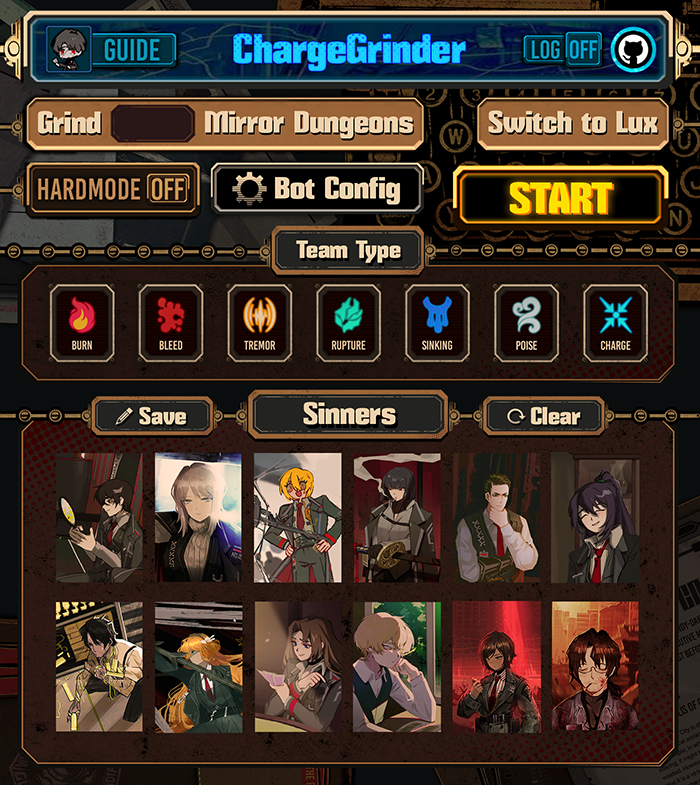
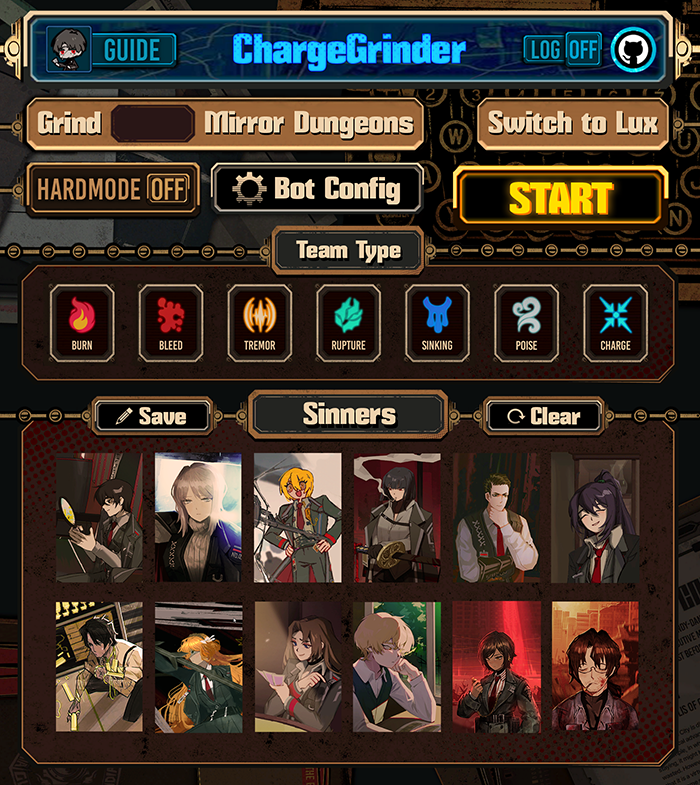
v1.1.2

Changed region(s): [[0.69, 0.4892, 0.87, 0.5503], [0.12, 0.4892, 0.3, 0.5503]]

diff --git a/source/shop.py b/source/shop.py
@@ -80,6 +80,7 @@ def inventory_check():
         template = cv2.imread(PTH[gift], cv2.IMREAD_GRAYSCALE)
         res = SIFT_matching(template, kp2, des2, REG["fuse_shelf"], min_matches=10, nfeatures=3000)
         if res:
+            print("got", gift)
             res = gui.center(res)
             have[gift] = res
             fuse_shelf = rectangle(fuse_shelf, (int(res[0] - 982), int(res[1] - 367)), (int(res[0] - 860), int(res[1] - 235)), (0, 0, 0), -1)
@@ -224,7 +225,7 @@ def fuse_loop():
 
 
 def balance(money):
-    time.sleep(0.1)
+    answer_me = True
     bal = -1
     start_time = time.time()
     # gui.screenshot(f"cost{time.time()}.png", region=(857, 175, 99, 57)) # debugging
@@ -232,7 +233,7 @@ def balance(money):
         if time.time() - start_time > 20: raise RuntimeError("Infinite loop exited")
         digits = []
         for i in range(9, -1, -1):
-            pos = [gui.center(box) for box in LocateRGB.locate_all(PTH[f"cost{i}"], region=(857, 175, 99, 57), threshold=7, conf=0.95, method=cv2.TM_SQDIFF_NORMED)]
+            pos = [gui.center(box) for box in LocateRGB.locate_all(PTH[f"cost{i}"], region=(857, 175, 99, 57), threshold=7, conf=0.9, method=cv2.TM_SQDIFF_NORMED)]
             for coord in pos:
                 if all(abs(coord[0] - existing_coord) > 7 for _, existing_coord in digits):
                     digits.append((i, coord[0]))
@@ -241,6 +242,10 @@ def balance(money):
         bal = ""
         for i in digits: bal += str(i[0])
         bal = int(bal or -1)
+        if bal != -1 and bal < money and answer_me: 
+            time.sleep(0.2)
+            answer_me = False # you game me an answer, but not your own
+            bal = -1 # I will ask again
     print("money", bal)
     return bal >= money
 

diff --git a/Bot.py b/Bot.py
@@ -274,30 +274,26 @@ def execute_me(is_lux, count, count_exp, count_thd, affinity, sinners, priority,
         print("No logging I guess")
         setup_logging(enable_logging=False)
 
-    if is_lux:
-        try:
-            set_window()
-            grind_lux(count_exp, count_thd)
-            QMetaObject.invokeMethod(p.APP, "stop_execution", Qt.ConnectionType.QueuedConnection)
-            return
-        except StopExecution:
-            return
-        except ZeroDivisionError: # gotta launch the game
-            raise RuntimeError("Launch Limbus Company!")
+
+    if not is_lux:    
+        p.PICK = generate_packs(priority)
+        p.IGNORE = generate_packs(avoid)
+        print(p.PICK)
         
-    p.PICK = generate_packs(priority)
-    p.IGNORE = generate_packs(avoid)
-    print(p.PICK)
-    
-    
-    print(f"Grinding {count} mirrors...")
-    print("Switch to Limbus Window")
-    countdown(10)
-    
-    logging.info('Script started')
+        
+        print(f"Grinding {count} mirrors...")
+        print("Switch to Limbus Window")
+        countdown(10)
+        
+        logging.info('Script started')
 
     try:
         set_window()
+        if is_lux:
+            grind_lux(count_exp, count_thd)
+            QMetaObject.invokeMethod(p.APP, "stop_execution", Qt.ConnectionType.QueuedConnection)
+            return
+
         for i in range(count):
             if p.NETZACH: check_enkephalin()
 

diff --git a/source/utils/utils.py b/source/utils/utils.py
@@ -257,7 +257,7 @@ def pause():
 def close_limbus():
     if gui.getActiveWindowTitle() == 'LimbusCompany':
         gui.hotkey('alt', 'f4')
-
+    if p.APP: QMetaObject.invokeMethod(p.APP, "stop_execution", Qt.ConnectionType.QueuedConnection)
     raise StopExecution()
 
 
@@ -482,8 +482,10 @@ def SIFT_matching(template, kp2, des2, search_region, min_matches=40, nfeatures=
                 y_min, y_max = min(y_coords), max(y_coords)
 
                 if (x_max - x_min < 2 * w) and (y_max - y_min < 2 * h):
-                    x, y = int(x_min), int(y_min)
-                    return (search_region[0] + x, search_region[1] + y, int(x_max - x), int(y_max - y))
+                    comp_inv = 1920 / p.WINDOW[2]
+                    x_fullhd = int(x_min*comp_inv) + search_region[0]
+                    y_fullhd = int(y_min*comp_inv) + search_region[1]
+                    return (x_fullhd, y_fullhd, int((x_max - x_min)*comp), int((y_max - y_min)*comp))
     return None
 
 

diff --git a/App.py b/App.py
@@ -761,11 +761,13 @@ class MyApp(QWidget):
             'save': CustomButton(self, {
                 'geometry': (90, 394, 125, 43),
                 'click_handler': self.save,
+                'glow': Bot.APP_PTH['save']
             }),
 
             'reset': CustomButton(self, {
                 'geometry': (481, 394, 125, 43),
                 'click_handler': self.reset,
+                'glow': Bot.APP_PTH['clear']
             }),
 
             'MD': CustomButton(self.lux, {
@@ -776,6 +778,7 @@ class MyApp(QWidget):
             'config': CustomButton(self, {
                 'geometry': (209, 160, 217, 55),
                 'click_handler': lambda: (self.config.show(), self.config.raise_()),
+                'glow': Bot.APP_PTH['settings']
             }),
 
             'save_config': CustomButton(self.config, {

diff --git a/source/event.py b/source/event.py
@@ -16,14 +16,14 @@ def event():
         
         if now.button("choices"):
             time.sleep(0.1)
-            egos = LocateGray.locate_all(PTH["textEGO"], region=REG["textEGO"])
+            egos = LocateGray.locate_all(PTH["textEGO"], region=REG["textEGO"], conf=0.85)
             print(egos)
             if not egos:
                 choice = random.choice([316, 520])
                 win_click(1348, choice, delay=0)
                 continue
             try:
-                win = LocateGray.try_locate(PTH["textWIN"], region=REG["textEGO"])
+                win = LocateGray.try_locate(PTH["textWIN"], region=REG["textEGO"], conf=0.85)
                 for box in egos:
                     if abs(box[1] - win[1]) > 80:
                         win_click(gui.center(box), delay=0)

diff --git a/source/teams.py b/source/teams.py
@@ -62,9 +62,9 @@ TEAMS = {
         "uptie2" : "thrill",
         "goal"   : "trance",
         "fuse1"  : {},
-        "fuse2"  : {"battery": 3, "rope": 2, "bundle": 1}, # trance        
-        "buy"    : ["thrill", "breast", "battery", "rope", "thunderbranch", "bundle"],
-        "all"    : ["thrill", "lasso", "lamp", "breast", "battery", "rope", "thunderbranch", "brooch", "bundle", "trance"],
+        "fuse2"  : {"battery": 3, "rope": 2, "bundle": 1}, # trance
+        "buy"    : ["thrill", "breast", "thunderbranch", "battery", "rope", "bundle", "umbrella"],
+        "all"    : ["thrill", "lasso", "lamp", "breast", "battery", "rope", "thunderbranch", "brooch", "bundle", "trance", "umbrella"],
     },
 
     # Sinking

diff --git a/source/battle.py b/source/battle.py
@@ -166,6 +166,7 @@ def fight(lux=False):
     while True:
         ck = False
         if loc.button("winrate", wait=1):
+            time.sleep(0.1)
             ck = True
             try:
                 if lux: raise gui.ImageNotFoundException

diff --git a/source/pack.py b/source/pack.py
@@ -2,8 +2,6 @@ from source.utils.utils import *
 
 
 def within_region(x, regions):
-    comp = 1920 / p.WINDOW[2]
-    x = int(x*comp)
     for i, region in enumerate(regions):
         x1, _, w, _ = region
         if x1 < x < x1 + w:

diff --git a/README.md b/README.md
@@ -28,7 +28,7 @@ Generally, each floor takes no more than 5 minutes, so a full MD5 run lasts betw
   - But it is still recommended to start on main game screen
 - ## Supports all team builds (Burn is recommended)
   - ***Pick the right team before starting the bot!***
-  - Burn is the fastest team with average time of 22 minutes per run.
+  - Burn is the fastest team with average time of 23 minutes per run.
   - Recommended team:
   
 > ![team.png](ImageAssets/readme/team.png)
